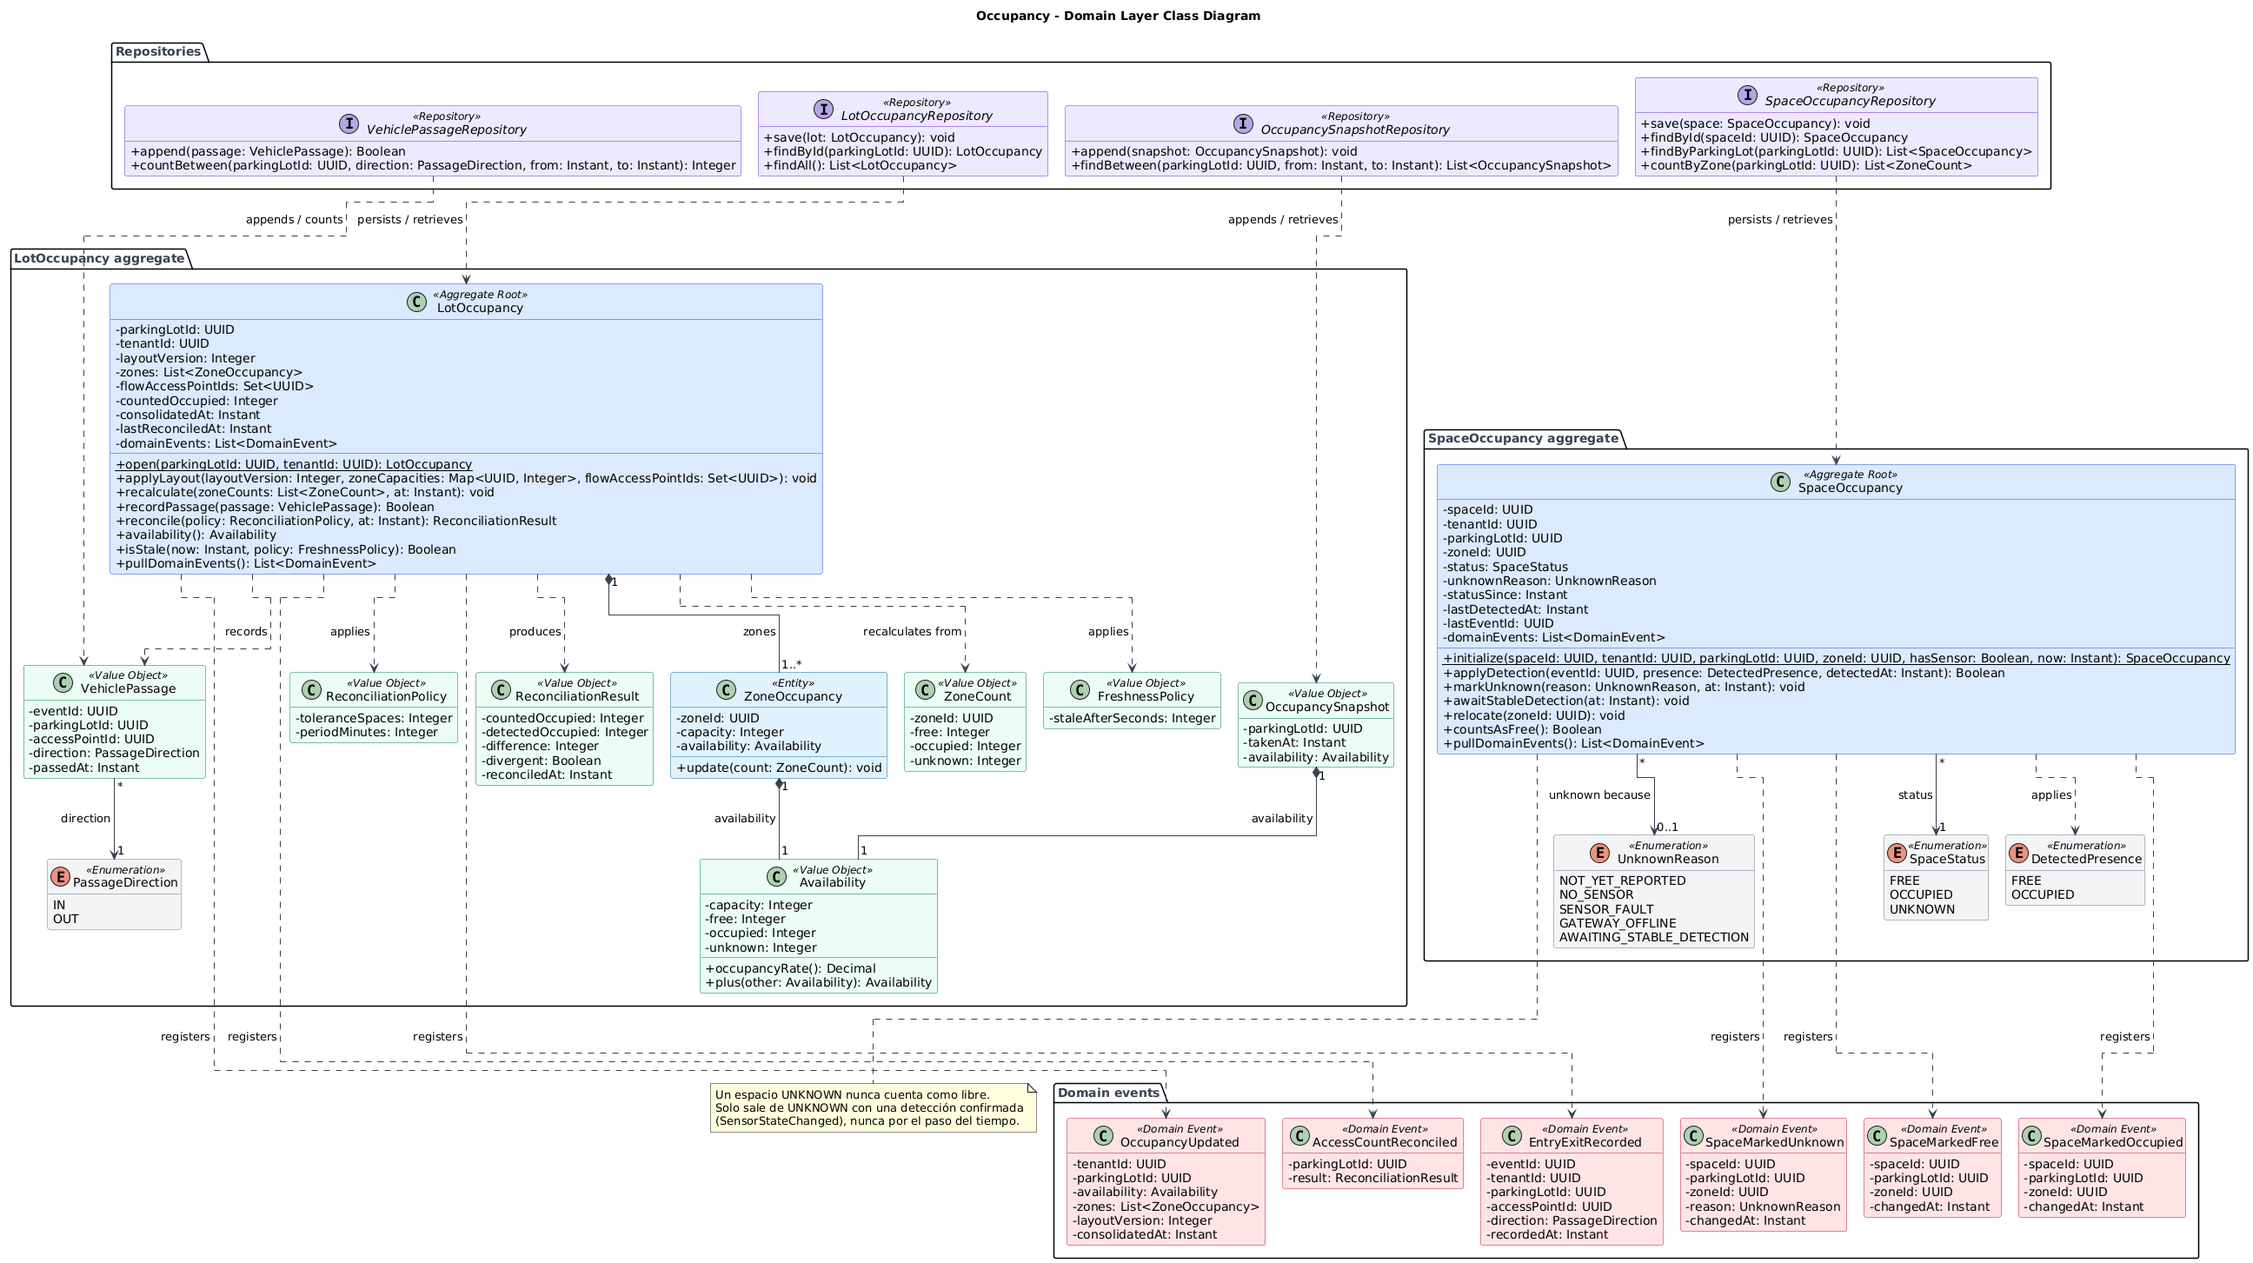
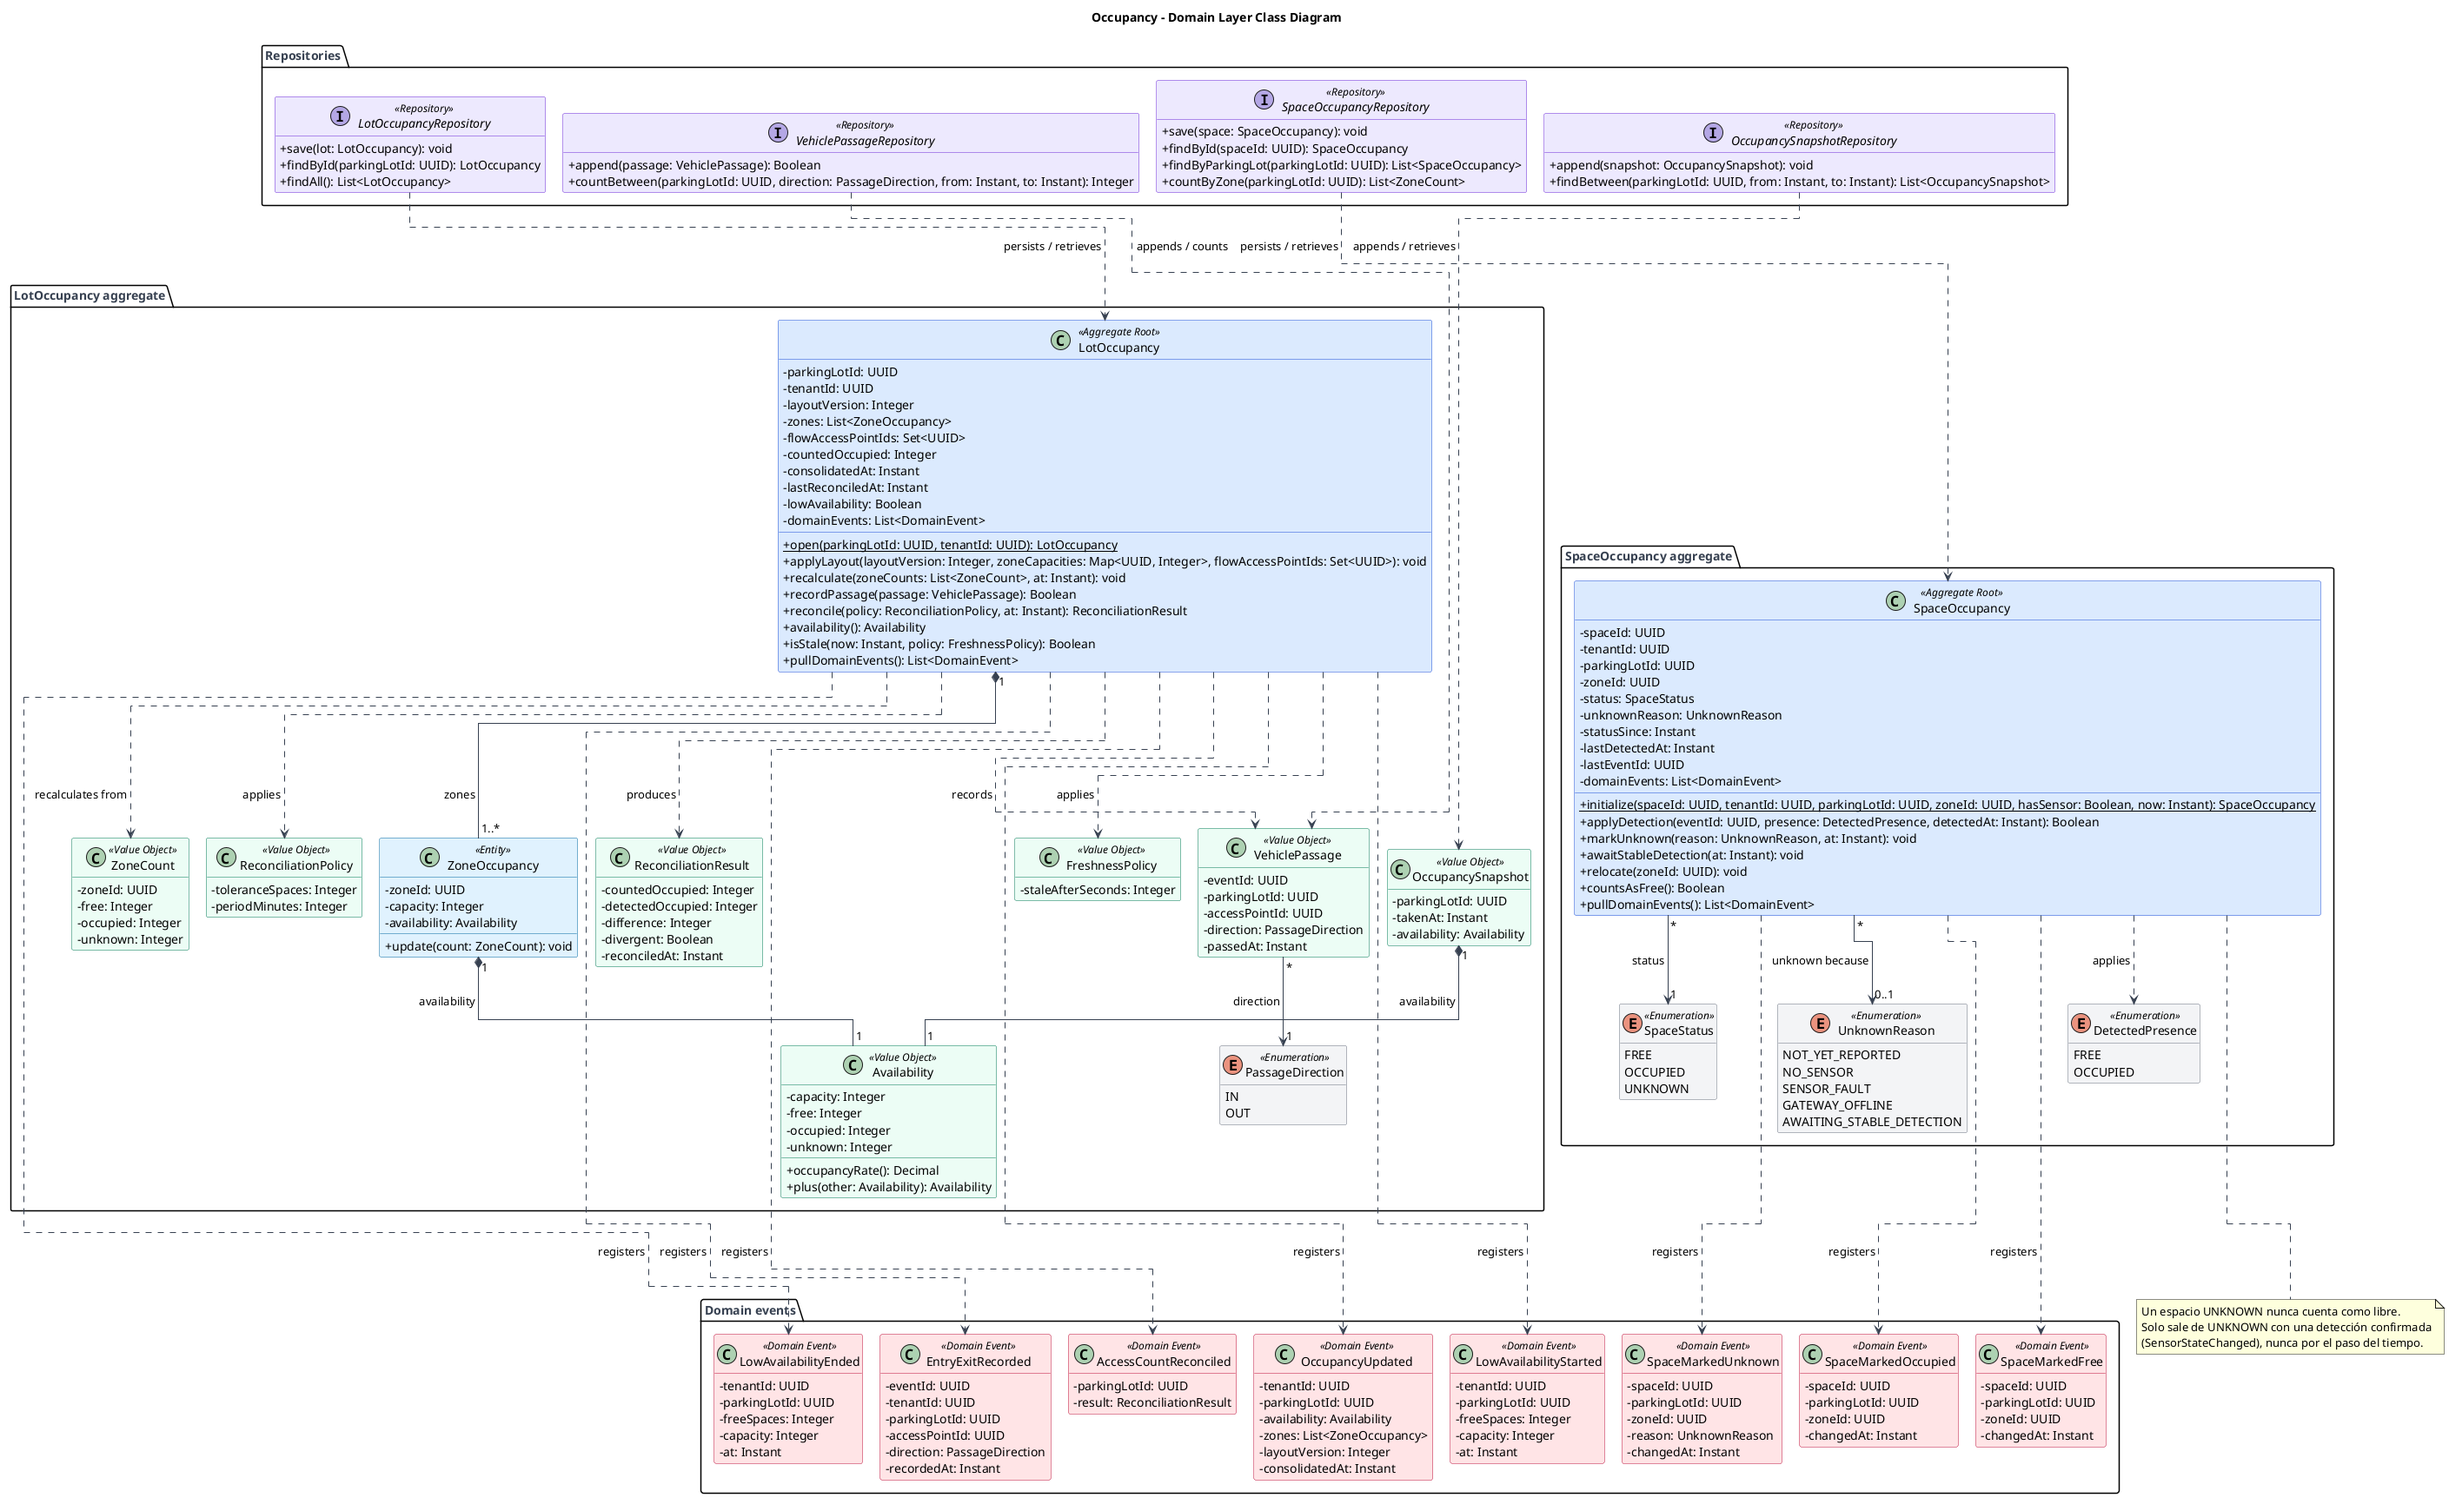
docs(chapter-05): add low availability events to occupancy

diff --git a/README.md b/README.md
@@ -4115,7 +4115,7 @@ La siguiente tabla resume las clases e interfaces principales de Parking Configu
 | AcademicCalendar | Domain | Aggregate Root. Calendario académico y eventos del campus de una institución. | calendarId, tenantId, periods, campusEvents | initialize(), registerPeriod(), registerCampusEvent(), cancelCampusEvent(), eventsAround() |
 | AcademicPeriod | Domain | Entity. Periodo de clases, exámenes o receso. | periodId, type, range | overlaps() |
 | CampusEvent | Domain | Entity. Actividad de alta afluencia que afecta a un estacionamiento. | campusEventId, name, parkingLotId, window, impact, status | cancel(), isActiveDuring() |
-| OperatingSettings | Domain | Value Object. Parámetros de operación del estacionamiento. | saturationThresholdPct, flowWindowMinutes, minimumDetectionSeconds, accuracyMarginPct | defaults(), isValid() |
+| OperatingSettings | Domain | Value Object. Parámetros de operación del estacionamiento. | saturationThresholdPct, lowAvailabilityPct, flowWindowMinutes, minimumDetectionSeconds, accuracyMarginPct | defaults(), isValid() |
 | LayoutVersion | Domain | Value Object. Versión publicada del layout. | value | next(), isPublished() |
 | LayoutSnapshot | Domain | Value Object. Copia inmutable del layout publicado. | parkingLotId, version, publishedAt, zoneCapacities, placements | — |
 | SensorPlacement | Domain | Value Object. Ubicación de un sensor dentro del layout publicado. | deviceId, hardwareId, target | — |
@@ -4197,7 +4197,7 @@ Methods
 |GeoPoint|Value Object|latitude: Decimal, longitude: Decimal|Coordenadas del ingreso vehicular; la latitud va de -90 a 90 y la longitud de -180 a 180.|
 |SpaceLabel|Value Object|value: String|Etiqueta visible del espacio (por ejemplo, "A01"), de 1 a 10 caracteres.|
 |SpacePosition|Value Object|x: Decimal, y: Decimal|Posición del espacio en el plano del estacionamiento que dibuja la aplicación.|
-|OperatingSettings|Value Object|saturationThresholdPct: Integer, flowWindowMinutes: Integer, minimumDetectionSeconds: Integer, accuracyMarginPct: Integer|Umbral de saturación entre 50 y 100 %; ventana de flujo entre 5 y 60 min; tiempo mínimo de detección entre 3 y 60 s; margen de precisión entre 1 y 30 puntos. `defaults()` entrega 90 %, 15 min, 10 s y 10 puntos.|
+|OperatingSettings|Value Object|saturationThresholdPct: Integer, lowAvailabilityPct: Integer, flowWindowMinutes: Integer, minimumDetectionSeconds: Integer, accuracyMarginPct: Integer|Umbral de saturación entre 50 y 100 %; umbral de poca disponibilidad entre 5 y 30 % de espacios libres; ventana de flujo entre 5 y 60 min; tiempo mínimo de detección entre 3 y 60 s; margen de precisión entre 1 y 30 puntos. `defaults()` entrega 90 %, 10 %, 15 min, 10 s y 10 puntos.|
 |LayoutVersion|Value Object|value: Integer|Número de versión. `next()` devuelve la siguiente; 0 significa que no hay layout publicado.|
 |LayoutSnapshot|Value Object|parkingLotId, version, publishedAt, zoneCapacities: `Map<UUID, Integer>`, placements: `List<SensorPlacement>`|Copia inmutable del layout publicado. Se guarda para que cada versión se pueda volver a consultar.|
 |SensorPlacement|Value Object|deviceId: UUID, hardwareId: HardwareId, target: AssignmentTarget|Asociación vigente de un sensor al momento de publicar.|
@@ -4391,7 +4391,7 @@ Methods
 
 |Nombre|Tipo de retorno|Visibilidad|Consumidor|Descripción|
 |-|-|-|-|-|
-|profileOf(tenantId: UUID, parkingLotId: UUID)|ParkingLotProfileView|Public|Prediction & Advisory, Analytics|Umbral de saturación, ventana de flujo y margen de precisión.|
+|profileOf(tenantId: UUID, parkingLotId: UUID)|ParkingLotProfileView|Public|Prediction & Advisory, Analytics, Occupancy|Umbral de saturación, umbral de poca disponibilidad, ventana de flujo y margen de precisión.|
 |activeLots()|`List<ActiveLotView>`|Public|Prediction & Advisory|Estacionamientos con layout publicado, con su institución.|
 |calendarEventsAround(tenantId: UUID, from: Instant, to: Instant)|`List<CalendarEventView>`|Public|Prediction & Advisory|Periodos académicos y eventos programados del intervalo.|
 |lotsOf(tenantId: UUID)|`List<ParkingLotSummaryView>`|Public|Módulo de composición|Estacionamientos para la pantalla de inicio y la consola.|
@@ -5117,6 +5117,7 @@ Attributes
 |flowAccessPointIds|`Set<UUID>`|Private|Accesos habilitados para el conteo de flujo según el layout.|
 |countedOccupied|Integer|Private|Ocupación derivada del conteo de ingresos y salidas desde la última reconciliación.|
 |consolidatedAt|Instant?|Private|Momento del último dato consolidado; define la antigüedad que se informa.|
+|lowAvailability|Boolean|Private|Indica si el estacionamiento está en poca disponibilidad. Entra cuando los espacios libres bajan del umbral del estacionamiento (10 % por defecto) y sale cuando superan ese umbral más 5 puntos, para no oscilar con cada espacio que se libera y se vuelve a ocupar.|
 |lastReconciledAt|Instant?|Private|Momento de la última reconciliación.|
 |domainEvents|`List<DomainEvent>`|Private|Eventos de dominio pendientes de publicación.|
 
@@ -5126,7 +5127,7 @@ Methods
 |-|-|-|-|
 |open(parkingLotId, tenantId)|LotOccupancy|Public (static)|Crea la ocupación del estacionamiento al recibir su primer layout.|
 |applyLayout(layoutVersion, zoneCapacities, flowAccessPointIds)|Void|Public|Actualiza las zonas, su capacidad y los accesos que cuentan flujo.|
-|recalculate(zoneCounts, at)|Void|Public|Reemplaza los conteos de cada zona, actualiza `consolidatedAt` y registra `OccupancyUpdated` (US05, US06).|
+|recalculate(zoneCounts, at)|Void|Public|Reemplaza los conteos de cada zona, actualiza `consolidatedAt` y registra `OccupancyUpdated` (US05, US06). Si cruza el umbral de poca disponibilidad, registra `LowAvailabilityStarted` o `LowAvailabilityEnded`; no registra nada mientras se mantiene del mismo lado.|
 |recordPassage(passage)|Boolean|Public|Si el acceso cuenta flujo, suma o resta en `countedOccupied` y registra `EntryExitRecorded` (TS14, escenario 1). Devuelve falso si el acceso no está habilitado.|
 |reconcile(policy, at)|ReconciliationResult|Public|Compara `countedOccupied` con los espacios ocupados detectados; si la diferencia supera la tolerancia más los espacios desconocidos, la marca como divergente. Ajusta el conteo a la detección y registra `AccessCountReconciled` (TS14, escenarios 2 y 3).|
 |availability()|Availability|Public|Suma la disponibilidad de todas las zonas.|
@@ -5168,6 +5169,8 @@ El contexto no necesita Domain Services: cada regla se resuelve dentro de un agr
 |SpaceMarkedUnknown|spaceId, parkingLotId, zoneId, reason, changedAt|Interno. Mismo uso que los anteriores.|
 |AccessCountReconciled|parkingLotId, result|Interno. Se registra para la consola.|
 |OccupancyUpdated|tenantId, parkingLotId, availability, zones, layoutVersion, consolidatedAt|Published Language. Lo consume Analytics para el historial de ocupación.|
+|LowAvailabilityStarted|tenantId, parkingLotId, freeSpaces, capacity, at|Published Language. Lo consume Notifications para avisar a los conductores de la franja actual y a los operadores.|
+|LowAvailabilityEnded|tenantId, parkingLotId, freeSpaces, capacity, at|Published Language. Lo consume Notifications para cerrar la condición y permitir una nueva alerta.|
 |EntryExitRecorded|eventId, tenantId, parkingLotId, accessPointId, direction, recordedAt|Published Language. Lo consume Analytics para el flujo histórico.|
 
 `OccupancyUpdated` y `EntryExitRecorded` son los nombres que fija la tabla de eventos de la sección 4.2.1 para "Disponibilidad actualizada" e "Ingreso o salida registrado".
@@ -5222,7 +5225,7 @@ Respuesta de `GET /api/v1/parking-lots/{lotId}/occupancy`:
 
 |Nombre|Categoría|Descripción|
 |-|-|-|
-|OccupancyRealtimeEndpoint|Endpoint WebSocket (STOMP)|El cliente autenticado se suscribe a `/topic/parking-lots/{lotId}/occupancy` y recibe un mensaje por cada cambio de estado de un espacio y por cada recálculo de la disponibilidad (TS09, escenario 2). La suscripción se autoriza con el mismo token y solo para estacionamientos de su institución.|
+|OccupancyRealtimeEndpoint|Endpoint WebSocket (STOMP)|El cliente autenticado se suscribe a `/topic/parking-lots/{lotId}/occupancy` y recibe un mensaje por cada cambio de estado de un espacio y por cada recálculo de la disponibilidad (TS09, escenario 2). La suscripción se autoriza con el mismo token y solo para estacionamientos de su institución. La app y la consola usan el mismo canal. Durante el reenvío del búfer de un gateway, los cambios se agrupan y se envía como máximo el último estado de cada zona por segundo.|
 
 **Open Host Service: OccupancyFacade**
 
